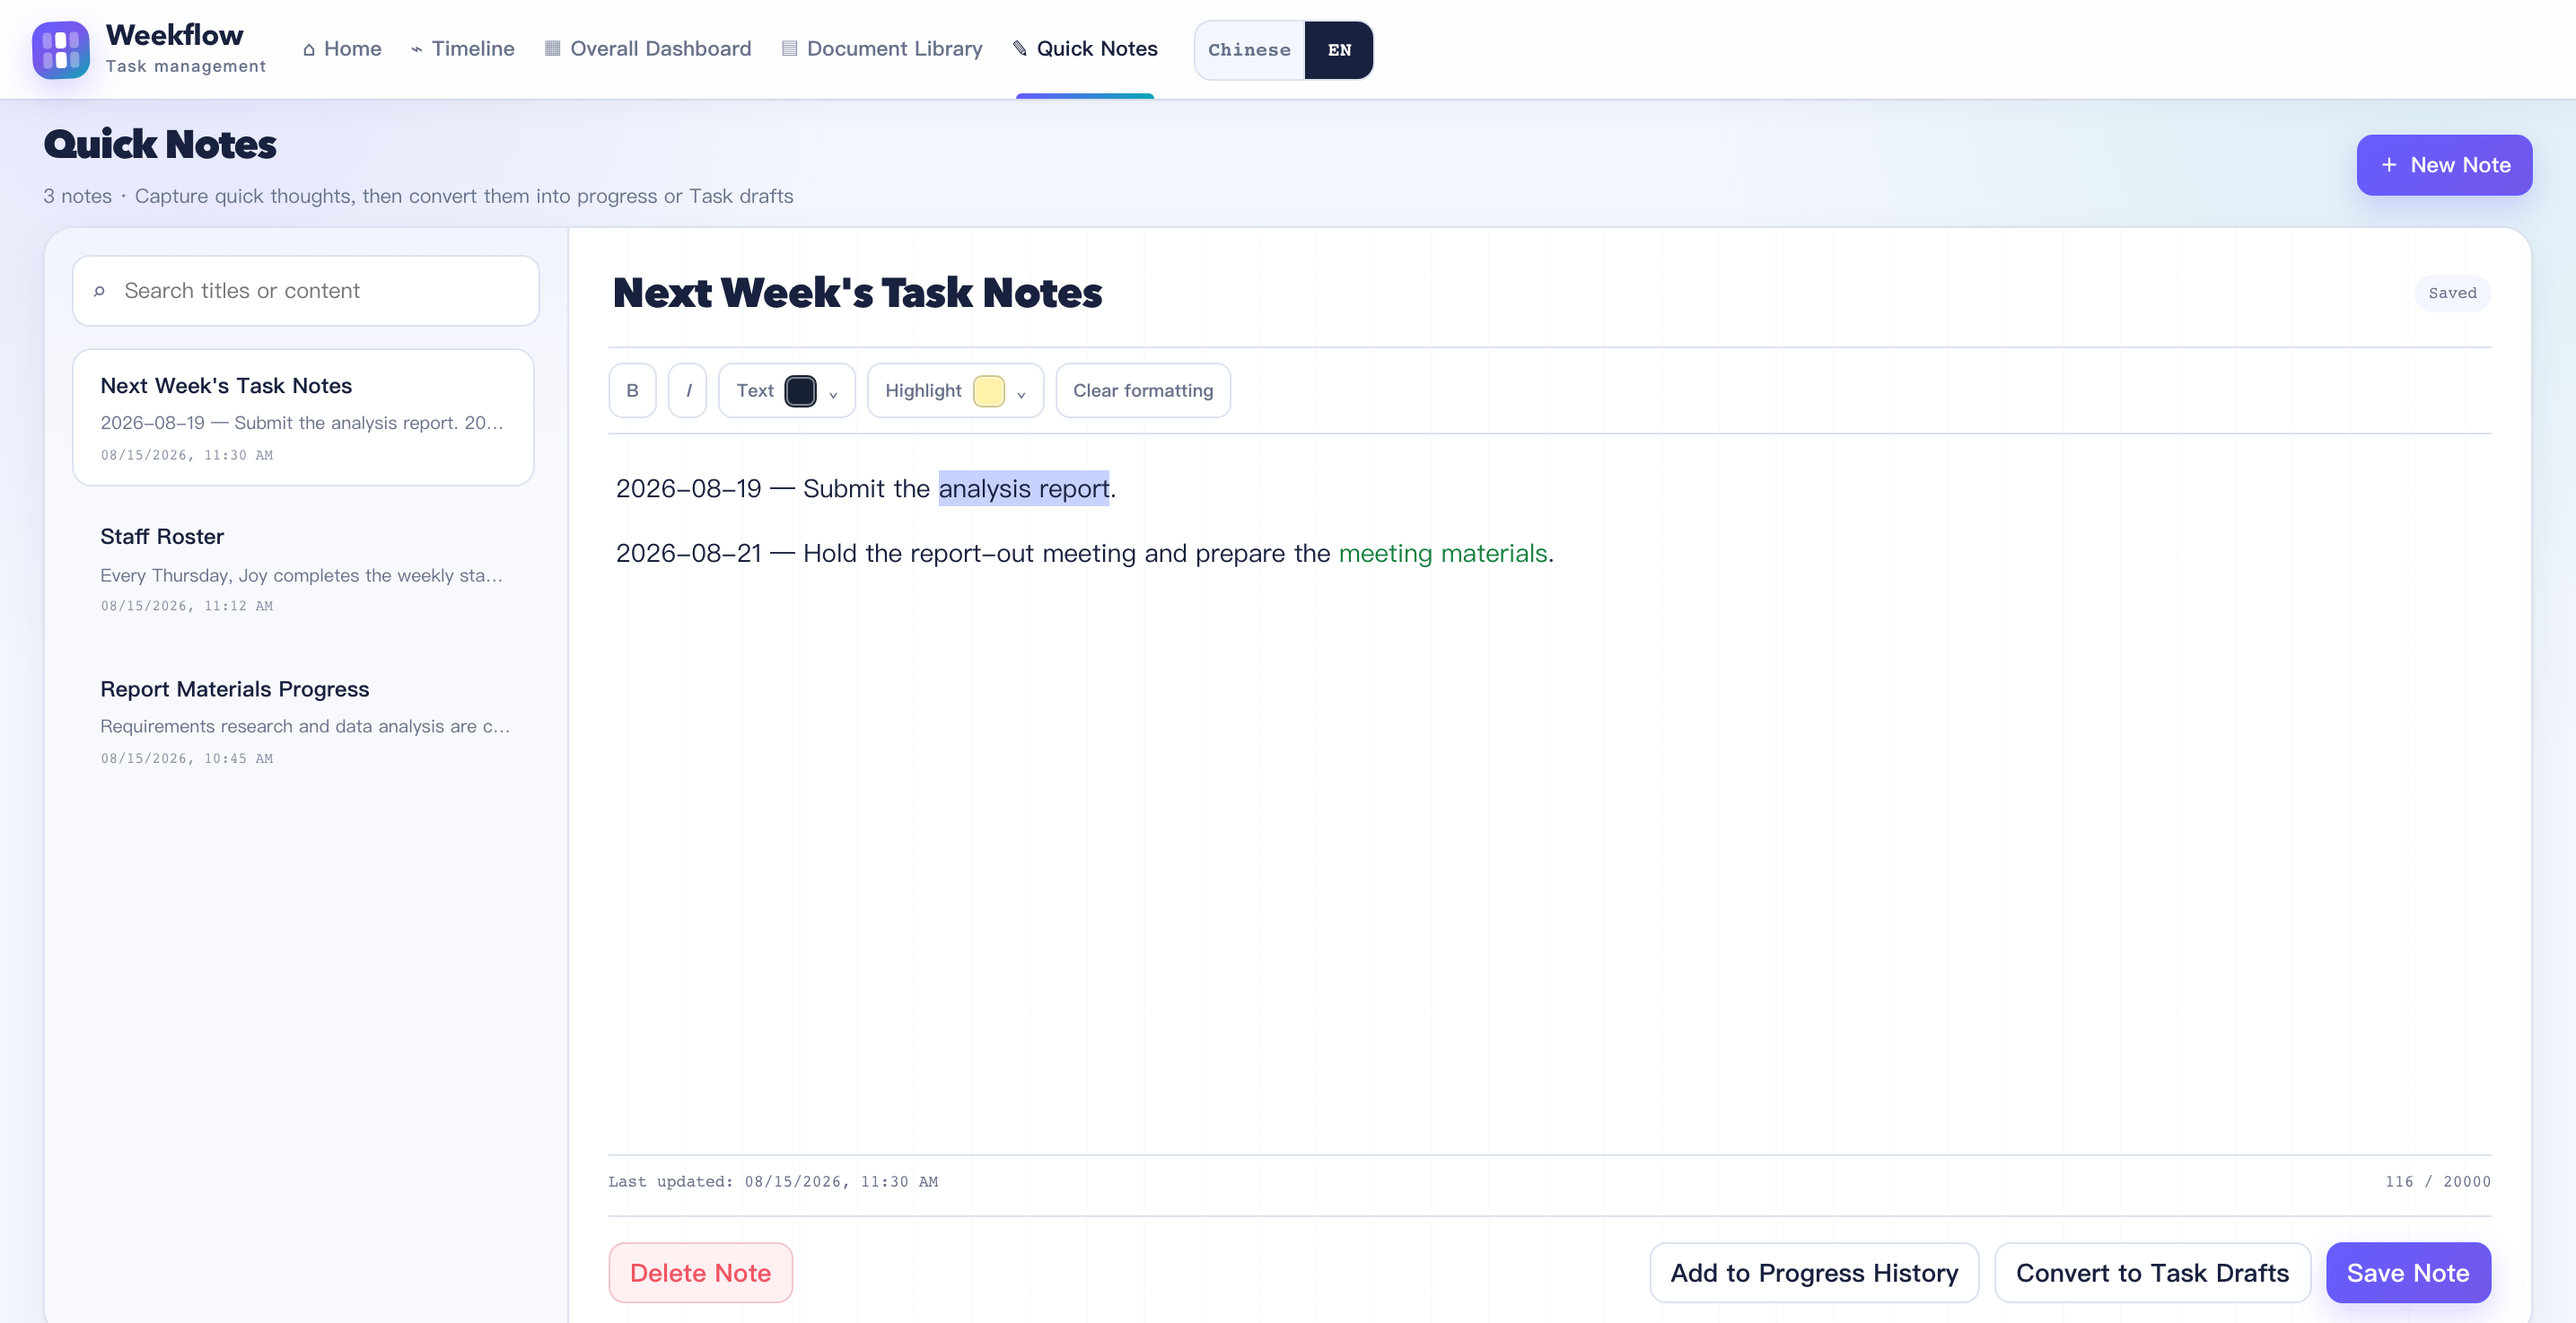
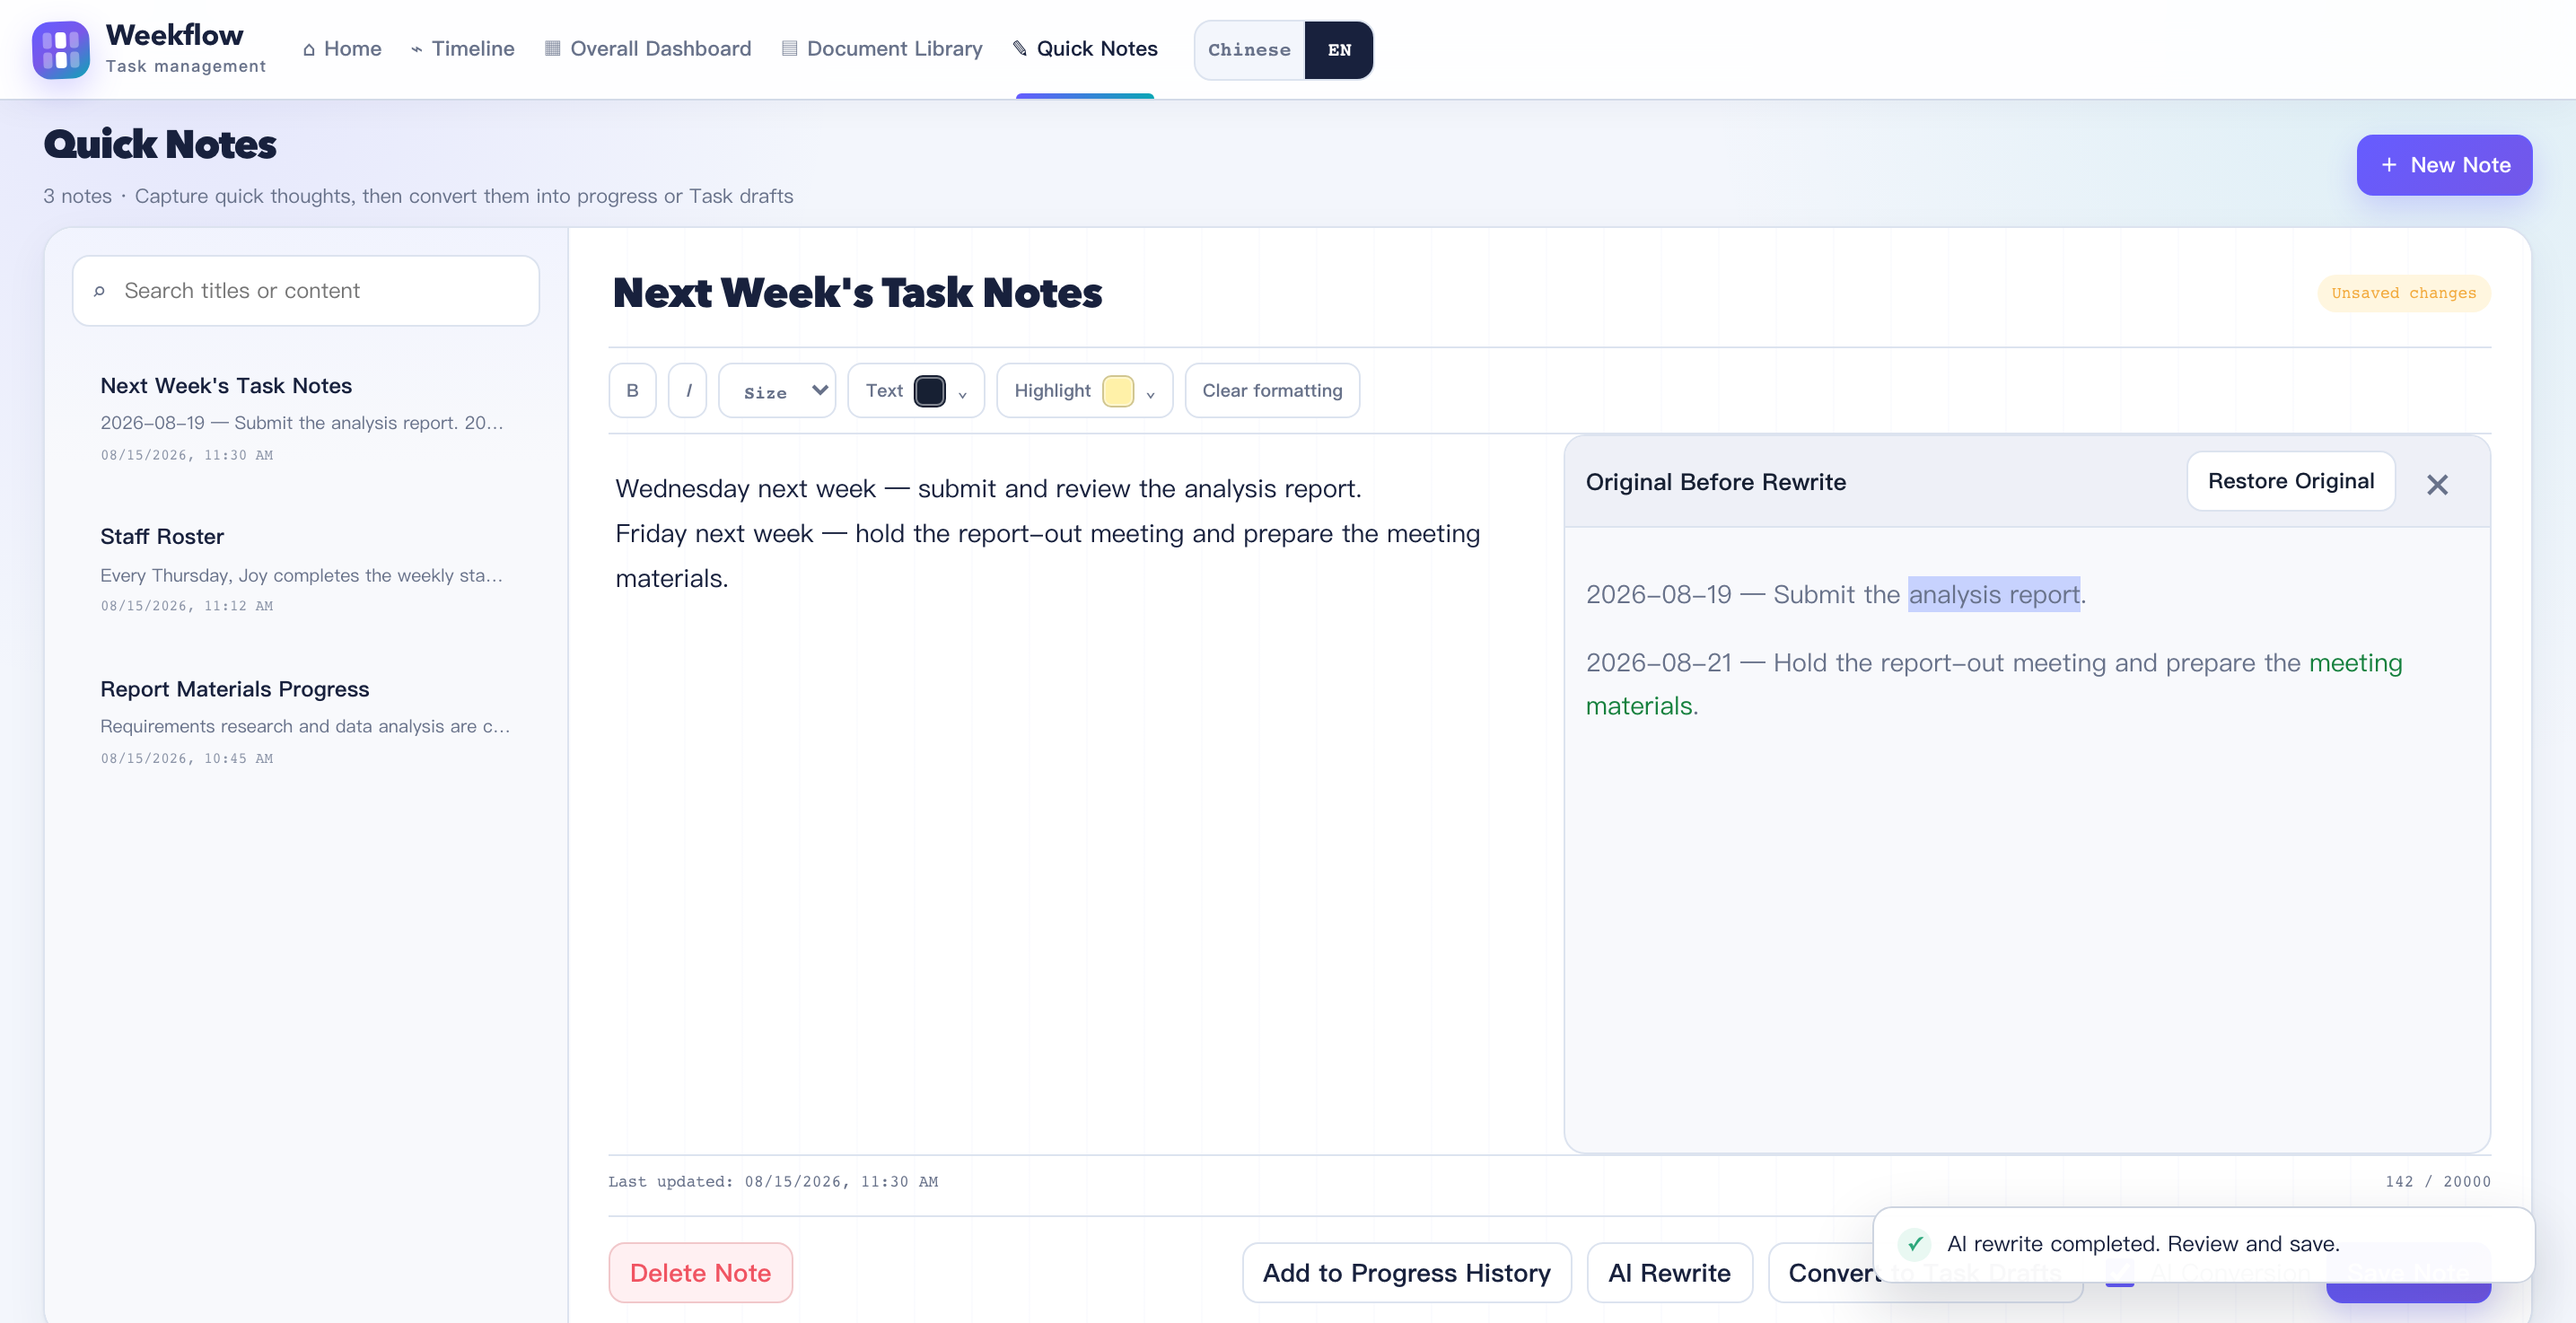
docs: showcase v3.1 AI features

diff --git a/tests/readme_screenshots_en.py b/tests/readme_screenshots_en.py
@@ -1,3 +1,4 @@
+import argparse
 import copy
 import json
 import re
@@ -11,6 +12,15 @@ ROOT = Path(__file__).resolve().parents[1]
 BASE_URL = "http://127.0.0.1:8765/Weekflow.html"
 ZH_OUTPUT = ROOT / "readme配图"
 EN_OUTPUT = ROOT / "readme-images-en"
+AI_SETTINGS_KEY = "weekflow:ai-settings:v1"
+AI_SCREENSHOT_SETTINGS = {
+    "enabled": True,
+    "noteAiEnabled": True,
+    "provider": "custom",
+    "apiKey": "readme-screenshot-placeholder",
+    "baseUrl": "https://mock-ai.invalid/v1",
+    "model": "weekflow-readme-demo",
+}
 
 GROUP_TRANSLATIONS = {
     "服务研发": "Service Development",
@@ -401,6 +411,10 @@ def seed_current_app(page, sample, language):
         "language => localStorage.setItem('weekflow-v2.4:language', language)",
         "en" if language == "en" else "zh-CN",
     )
+    page.evaluate(
+        "([key, value]) => localStorage.setItem(key, JSON.stringify(value))",
+        [AI_SETTINGS_KEY, AI_SCREENSHOT_SETTINGS],
+    )
     page.reload()
     page.wait_for_load_state("networkidle")
     close_reminder(page)
@@ -408,10 +422,27 @@ def seed_current_app(page, sample, language):
     return progress_task["id"]
 
 
+def capture_ai_readme_surfaces(page, language):
+    home_path = ZH_OUTPUT / "主页.png" if language == "zh" else EN_OUTPUT / "home.png"
+    notes_path = ZH_OUTPUT / "笔记编辑.png" if language == "zh" else EN_OUTPUT / "quick-notes.png"
+
+    page.locator('[data-view="home"]').first.click()
+    capture(page, home_path, 1435, 618)
+
+    page.locator('[data-view="notes"]').first.click()
+    page.locator('[data-note-id="note-next-week"]').click()
+    page.locator('[data-action="note-ai-rewrite"]').click()
+    page.locator("#note-ai-original-panel").wait_for(state="visible")
+    page.wait_for_function(
+        "document.querySelector('[data-action=\"note-ai-rewrite\"]')?.disabled === false"
+    )
+    page.evaluate("window.scrollTo(0, 0)")
+    capture(page, notes_path, 1435, 737)
+
+
 def capture_core(page, language, progress_task_id):
     labels = (
         {
-            "home": ZH_OUTPUT / "主页.png",
             "timeline": ZH_OUTPUT / "时间轴看板.png",
             "task": ZH_OUTPUT / "新建task.png",
             "flow": ZH_OUTPUT / "编辑Flow.png",
@@ -421,7 +452,6 @@ def capture_core(page, language, progress_task_id):
         }
         if language == "zh"
         else {
-            "home": EN_OUTPUT / "home.png",
             "timeline": EN_OUTPUT / "task-by-week.png",
             "task": EN_OUTPUT / "create-task.png",
             "flow": EN_OUTPUT / "edit-flow.png",
@@ -430,8 +460,7 @@ def capture_core(page, language, progress_task_id):
             "report": EN_OUTPUT / "dashboard-report-to.png",
         }
     )
-    page.locator('[data-view="home"]').first.click()
-    capture(page, labels["home"], 1435, 618)
+    capture_ai_readme_surfaces(page, language)
 
     page.locator('[data-view="timeline"]').first.click()
     page.wait_for_timeout(450)
@@ -478,9 +507,6 @@ def capture_core(page, language, progress_task_id):
 
 def capture_english_features(page, progress_task_id):
     page.locator('[data-view="notes"]').first.click()
-    page.locator('[data-note-id="note-next-week"]').click()
-    capture(page, EN_OUTPUT / "quick-notes.png", 1435, 737)
-
     page.locator('[data-note-id="note-progress"]').click()
     page.locator('[data-action="note-to-progress"]').click()
     page.locator("#note-progress-dialog[open]").wait_for(state="visible")
@@ -513,6 +539,13 @@ def capture_english_features(page, progress_task_id):
 
 
 def main():
+    parser = argparse.ArgumentParser(description="Capture bilingual Weekflow README screenshots.")
+    parser.add_argument(
+        "--ai-readme-only",
+        action="store_true",
+        help="Capture only the Home and AI-enabled Quick Notes screenshots.",
+    )
+    args = parser.parse_args()
     ZH_OUTPUT.mkdir(exist_ok=True)
     EN_OUTPUT.mkdir(exist_ok=True)
     with sync_playwright() as playwright:
@@ -532,13 +565,32 @@ def main():
             )
             page = context.new_page()
             errors = []
+            rewrite_text = (
+                "Wednesday next week — submit and review the analysis report.\n"
+                "Friday next week — hold the report-out meeting and prepare the meeting materials."
+                if language == "en"
+                else "下周三，提交分析报告并完成复核。\n下周五，召开汇报会议并提前准备会议材料。"
+            )
+
+            def handle_ai(route, _request, response_text=rewrite_text):
+                route.fulfill(
+                    status=200,
+                    content_type="application/json",
+                    body=json.dumps({"choices": [{"message": {"content": response_text}}]}),
+                )
+
+            page.route("**/chat/completions", handle_ai)
             page.on(
                 "console",
                 lambda message: errors.append(message.text) if message.type == "error" else None,
             )
             page.on("pageerror", lambda error: errors.append(str(error)))
+            page.on("dialog", lambda dialog: dialog.accept())
             progress_task_id = seed_current_app(page, sample, language)
-            capture_core(page, language, progress_task_id)
+            if args.ai_readme_only:
+                capture_ai_readme_surfaces(page, language)
+            else:
+                capture_core(page, language, progress_task_id)
             if language == "en":
                 han = visible_han_text(page)
                 if han:

diff --git a/README_EN.md b/README_EN.md
@@ -34,10 +34,11 @@ Both English and Chinese import headers and supported field values remain accept
 
 ### Home and Navigation
 
-![Weekflow Home](readme-images-en/home.png)
+![Weekflow v3.1 Home with the AI Settings entry](readme-images-en/home.png)
 
 - Home displays Task, Group, Flow, document, note, and completion-rate totals.
 - Direct entries open Task by Week, Overall Dashboard, Document Library, Quick Notes, User Guide, and Changelog.
+- The top-level **AI Settings** entry configures the provider, model, and API Key. Local Task-draft parsing remains fully available without AI.
 - A non-blocking bottom-right reminder lists incomplete Tasks due within seven days and closes automatically after ten seconds.
 - `Command/Ctrl + K` opens timeline search from Home or focuses document-name search in the Document Library.
 
@@ -74,7 +75,9 @@ Both English and Chinese import headers and supported field values remain accept
 - The fourth business page, **Quick Notes**, provides a titled rich-text-only writing area and a left list sorted by latest update. Search covers title and body, and unsaved-change prompts protect navigation, note switching, language switching, and page closing.
 - Formatting supports bold, italic, five preset font sizes (12/14/16/18/22), pasted SharePoint/HTTP/HTTPS links, and Excel-like 20-color preset palettes for text and highlights. Arbitrary color pickers, images, attachments, and tables are intentionally excluded.
 
-![Quick Notes editor](readme-images-en/quick-notes.png)
+![AI Rewrite comparison in the Quick Notes editor](readme-images-en/quick-notes.png)
+
+- The screenshot shows **AI Conversion** enabled, an AI Rewrite result, and the restorable **Original Before Rewrite** panel. Users still review and save every AI result themselves.
 
 - **Add to Progress History** selects Group → optional Flow → Task and appends a new timestamped progress entry. The original note remains, and later edits do not synchronize either copy.
 

diff --git a/README.md b/README.md
@@ -30,10 +30,11 @@ http://localhost:8080/Weekflow.html
 
 ### 主页与导航
 
-![Weekflow 主页](readme配图/主页.png)
+![Weekflow v3.1 主页与 AI 设置入口](readme配图/主页.png)
 
 - 主页显示 Task、分组、Flow、资料数量和完成率。
 - 提供时间轴看板、整体看板、资料库、随手记、使用说明和更新日志入口。
+- 顶部“AI 设置”入口用于配置模型服务商、模型与 API Key；未配置 AI 时，本地 Task 草稿解析仍可完整使用。
 - 每次进入程序会在右下角显示未来 7 天内未完成 Task 的 DDL 提醒；提醒 10 秒后自动关闭，悬浮期间不阻断任何操作，关闭按钮采用清晰的图形化样式。
 - 程序内更新日志按版本号从新到旧展示完整历史，而不是只显示当前版本内容。
 - `Command/Ctrl + K` 在主页进入时间轴搜索，在资料库聚焦资料名称搜索，在随手记聚焦笔记搜索。
@@ -82,7 +83,9 @@ http://localhost:8080/Weekflow.html
 - 第四个业务页“随手记”提供标题、纯文本富格式编辑区和按最后更新时间倒序排列的笔记列表，支持标题/正文搜索、修改标题、删除双重确认和未保存修改提醒。
 - 编辑器支持加粗、斜体、12/14/16/18/22 五档字号、SharePoint/HTTP/HTTPS 链接，以及类似 Excel 的 20 色字色和 20 色底色预设盘；不引入任意取色器、图片、附件或表格。
 
-![随手记编辑界面](readme配图/笔记编辑.png)
+![随手记 AI 改写前后对照](readme配图/笔记编辑.png)
+
+- 图中展示已启用的“AI 转换”、AI 改写结果和可恢复的“改写前原文”；AI 结果始终需要用户检查并保存。
 
 - “添加到进度记录”按“分组 → 可选 Flow → Task”选择目标，把当前笔记作为一条新的时间戳记录追加到 Task；原笔记保留，二者后续互不自动同步。
 
